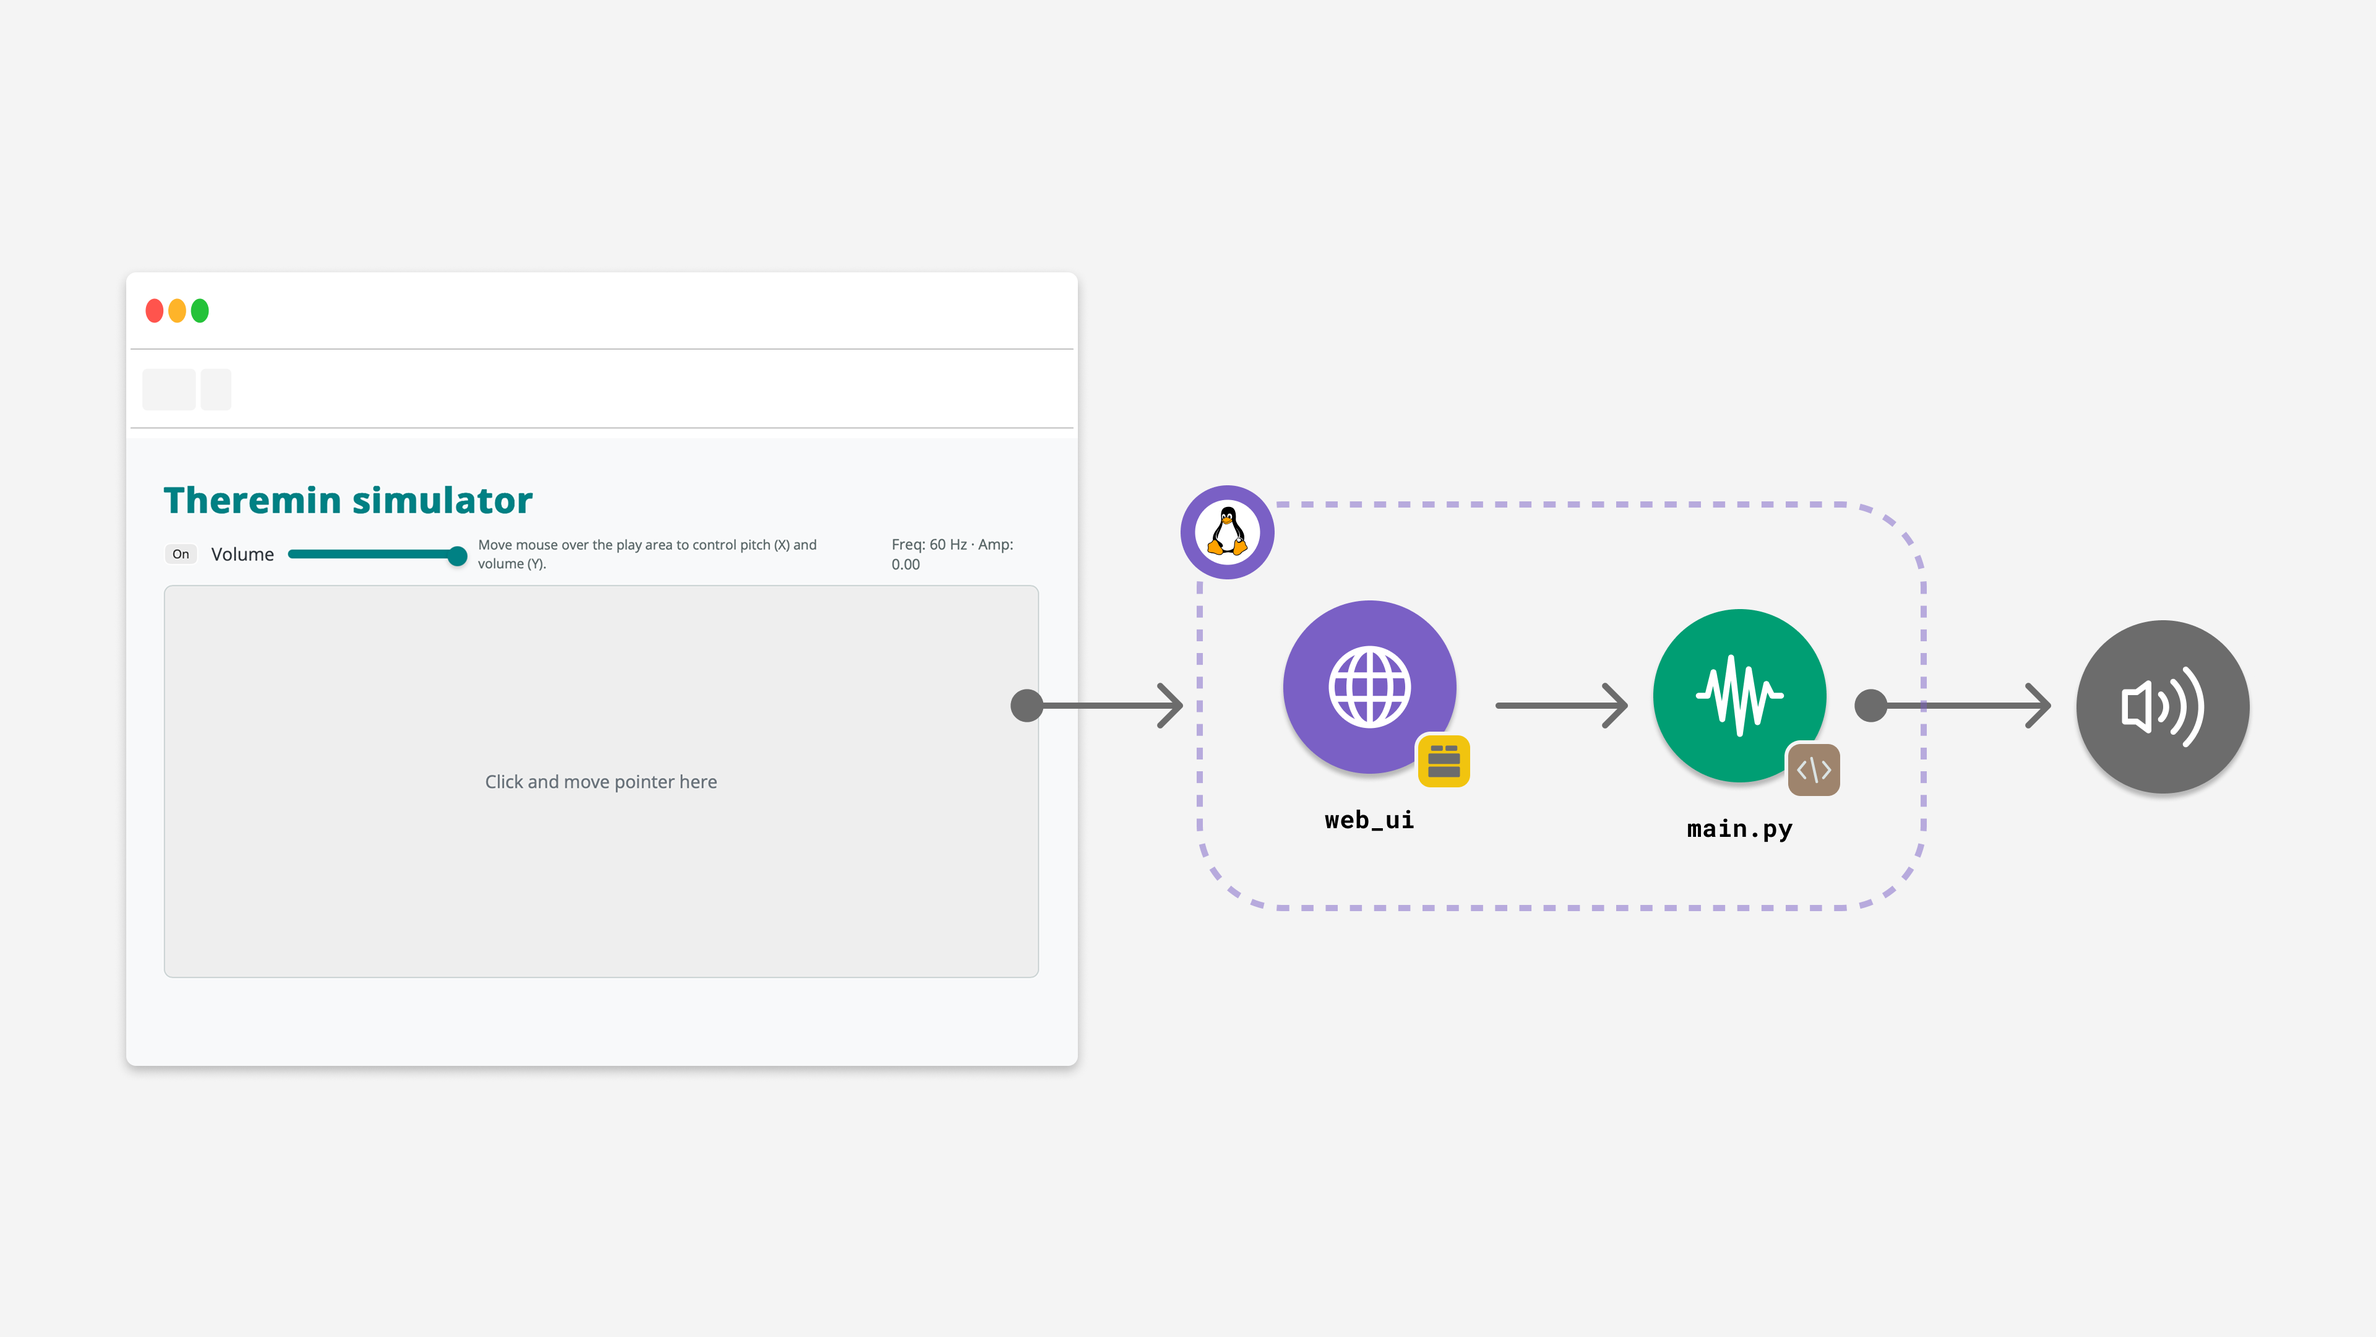
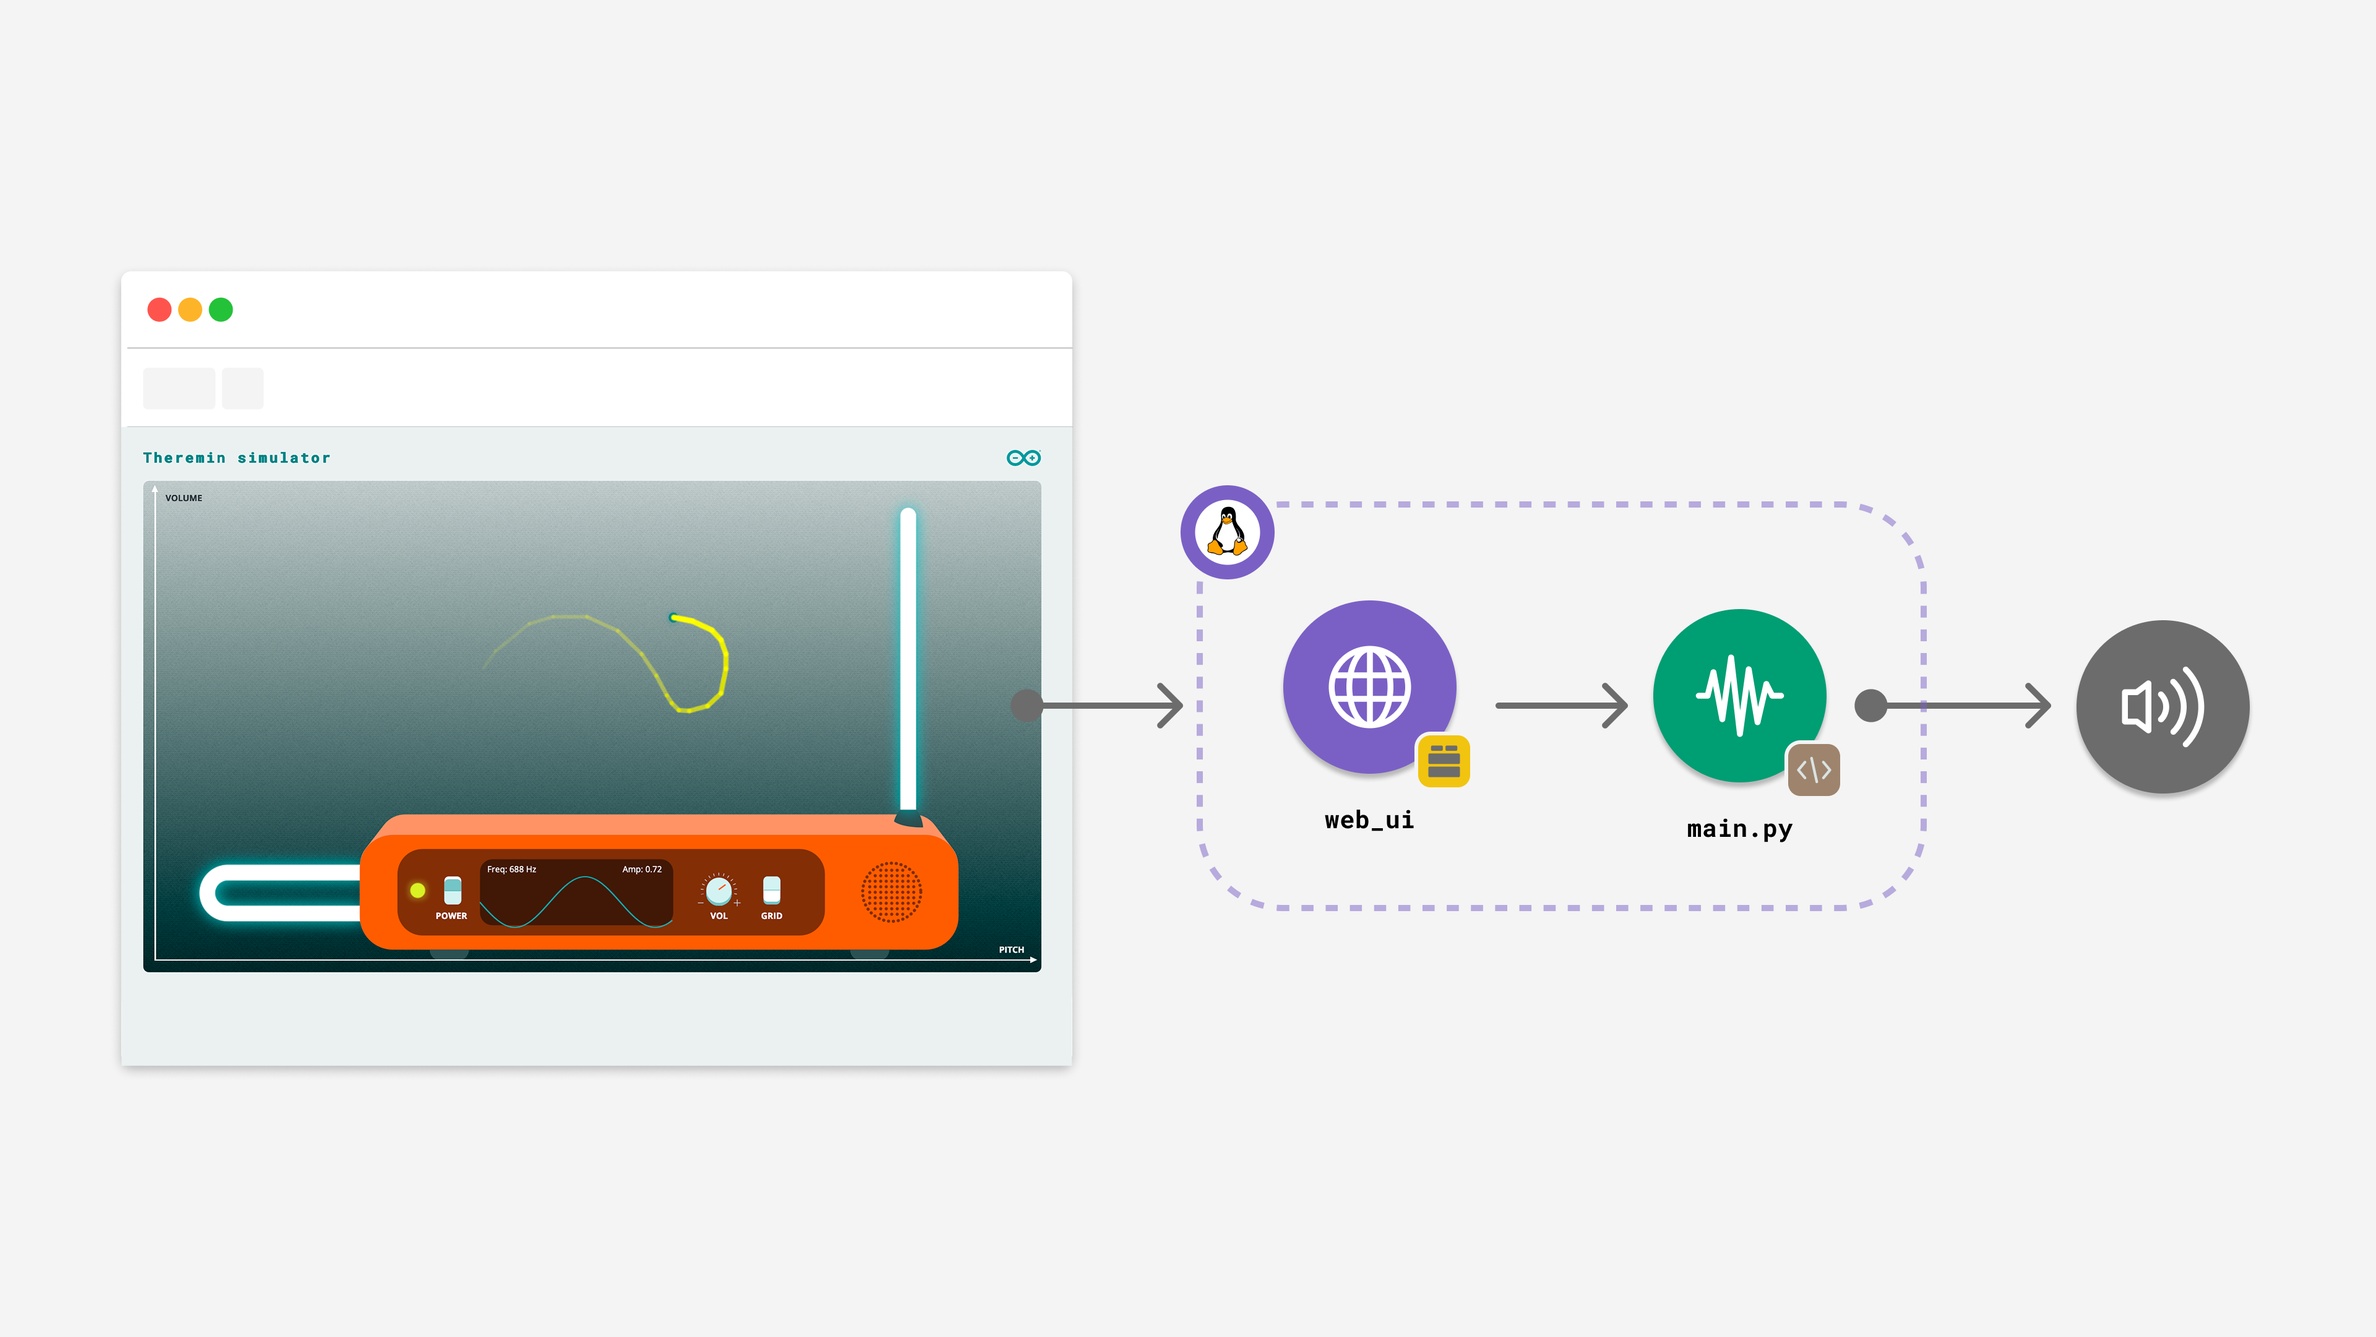
Update theremin docs

Changed region(s): [[0.0625, 0.3412, 0.4375, 0.7444], [0.0625, 0.2171, 0.0938, 0.2481]]

diff --git a/examples/theremin/README.md b/examples/theremin/README.md
@@ -1,19 +1,17 @@
 # Theremin Simulator
 
-The **Theremin Simulator** example lets you create and control a virtual theremin instrument using an interactive web interface, producing synthesized audio output through a connected **USB** audio device with minimal latency.
+The **Theremin Simulator** example lets you create and control a virtual theremin instrument using an interactive web interface, producing synthesized audio output through a connected **USB** audio device with low latency.
 
 > **Note**: This example must be run in **[Network Mode](learn/network-mode)** or **[SBC Mode](learn/single-board-computer)**, since it requires a **USB-C® hub** and a **USB speaker**.
 
 ![Theremin Simulator](assets/docs_assets/theremin-simulator.png)
 
-This example generates real-time audio by creating sine waves at varying frequencies and amplitudes based on user input from the web interface. The workflow involves receiving mouse/touch coordinates from the frontend, calculating the corresponding frequency and amplitude, generating audio blocks using a sine wave generator, and playing them through a **USB** audio device with minimal latency.
-
+This example generates real-time audio by creating sine waves at varying frequencies and amplitudes based on user input from the web interface. The workflow involves receiving mouse/touch coordinates from the frontend and updating a **Wave Generator** Brick, which handles the audio synthesis, smoothing, and streaming to the USB device automatically.
 
 ## Bricks Used
 
 - `web_ui`: Brick that provides the web interface and a WebSocket channel for real-time control of the theremin.
-- `wave_generator`: Brick that generates continuous audio waveforms and streams them to the USB speaker with smooth frequency and amplitude transitions.
-
+- `wave_generator`: Brick that handles audio synthesis, envelope control (smoothing), and streaming to the USB audio device.
 
 ## Hardware and Software Requirements
 
@@ -21,47 +19,66 @@ This example generates real-time audio by creating sine waves at varying frequen
 
 - [Arduino UNO Q](https://store.arduino.cc/products/uno-q) (x1)
 - **USB-C® hub with external power (x1)**
-- A power supply (5 V, 3 A) for the USB hub adapter with external power (x1)
+- A power supply (5 V, 3 A) for the USB hub (x1)
 - A **USB audio device** (choose one):
-  - **USB speaker** (cabled) (x1) ✅ *supported*
-  - **USB wireless speaker receiver/dongle** (2.4 GHz) (x1) ✅ *supported*
-  - **USB‑C → 3.5 mm audio connector** + headphones/speakers (x1) ⚠ *not tested* (may work)
+  - **USB speaker** (cabled) ✅ *supported*
+  - **USB wireless speaker receiver/dongle** (2.4 GHz, non-Bluetooth) ✅ *supported*
+  - **USB‑C → 3.5 mm audio connector** + headphones/speakers ⚠ *not tested* (may work)
 - A **power supply** (5 V, 3 A) for the USB hub (e.g. a phone charger)
 
-> **Not supported:** **HDMI audio and Bluetooth® Speakers** output is not supported by this App.
+> **Not supported:** **HDMI audio** and **Bluetooth® Speakers** are not supported by this App.
 
 ### Software
 
 - Arduino App Lab
 
-**Note:** A **USB-C® hub is mandatory** for this example. The UNO Q's single port must be used for the hub, which provides the necessary connections for both the power supply and the USB audio device. Consequently, this example must be run in **[Network Mode](learn/network-mode)** or **[SBC Mode](learn/single-board-computer)**.
-
+**Note:** A **USB-C® hub is mandatory** for this example. The UNO Q's single port must be used for the hub, which provides the necessary connections for both the power supply and the USB audio device. consequently, this example must be run in **[Network Mode](learn/network-mode)** or **[SBC Mode](learn/single-board-computer)**.
 
 ## How to Use the Example
 
-1. Connect your **USB audio device** (e.g., USB speaker, wireless USB receiver, or USB‑C→3.5 mm dongle) to a powered **USB-C® hub** attached to the UNO Q.
+1. **Hardware Setup:** Connect your **USB audio device** (e.g., USB speaker, wireless USB receiver) to a powered **USB-C® hub** attached to the UNO Q.
    ![hardware-setup](assets/docs_assets/hardware-setup.png)
 
-2. Launch the App by clicking the **Play** button in the top-right corner. Wait until the App has launched. 
+2. **Launch:** Launch the App by clicking the **Play** button in the top-right corner. Wait until the App has launched.
    ![Launching an App](assets/docs_assets/launch-app-theremin.png)
-3. Open the App in your browser at `<UNO-Q-IP-ADDRESS>:7000` *(typically 192.168.x.x, e.g., http://192.168.1.11:7000)*.
-4. Click and drag your mouse (or use touch) on the interactive area to play:
-   - **Horizontal movement (X-axis)** controls the **pitch** (frequency).
-   - **Vertical movement (Y-axis)** controls the **volume** (amplitude).
 
+3. **Open Interface:** Open the App in your browser at `<UNO-Q-IP-ADDRESS>:7000` *(typically 192.168.x.x, e.g., http://192.168.1.11:7000)*.
+
+### Interacting with the Interface
+
+Once the web page loads, follow these steps to make sound:
+
+1.  **Turn on Power:** Locate the orange control panel at the bottom. Click the **POWER** switch to toggle it **ON** (the small LED indicator will light up).
+    *   *Note: No sound will be produced if this switch is OFF.*
+2.  **Set Master Volume:** Adjust the **VOL** knob to a comfortable level (e.g., 70-80%). This sets the maximum output limit for the application.
+3.  **Play the Instrument:** Drag your mouse (or use your finger on a touchscreen) inside the large gray background area:
+    *   **Horizontal (Left ↔ Right):** Controls **Pitch**. Moving right increases the frequency (higher notes).
+    *   **Vertical (Bottom ↕ Top):** Controls **Note Volume**. Moving up increases the amplitude (louder). Moving to the very bottom silences the note.
+4.  **Waveform Display:** The screen in the center of the panel visualizes the real-time sine wave, frequency (Hz), and amplitude data.
+
+#### Additional Controls
+*   **GRID Switch:** Toggles a background grid overlay. Use this to visually reference specific pitch intervals or volume levels.
 
 ## How it Works
 
-The application creates a real-time audio synthesizer controlled by a web interface. User interactions on the webpage are sent to the Python backend via a WebSocket. The backend uses the `wave_generator` brick to continuously generate and stream audio to the connected **USB** audio device with smooth transitions.
+The application uses the `wave_generator` Brick to create a continuous audio stream. The Python backend receives user coordinates via WebSocket and updates the generator's frequency and amplitude. The Brick automatically handles **envelope smoothing** (attack, release, glide) to ensure the audio changes sound natural and analog-like, rather than robotic.
 
-- **User Interaction**: The frontend captures mouse or touch coordinates within a designated "play area".
-- **Real-time Communication**: These coordinates are sent to the Python backend in real-time using the `web_ui` Brick's WebSocket channel.
-- **Audio Synthesis**: The backend maps the X-coordinate to **frequency** and the Y-coordinate to **amplitude**, then updates the `wave_generator` brick's state. The brick handles smooth transitions using configurable envelope parameters (attack, release, glide).
-- **Audio Output**: The `wave_generator` brick runs continuously in a background thread, generating audio blocks and streaming them to the **USB** audio device with minimal latency.
+- **User Interaction**: The frontend captures mouse/touch coordinates and sends them to the backend.
+- **Real-time Communication**: Input data is sent via the `web_ui` Brick's WebSocket channel.
+- **Audio Synthesis**: The `wave_generator` Brick runs in the background. It takes the target frequency and amplitude and applies a **glide (portamento) algorithm** to transition smoothly between notes.
+- **Audio Output**: The Brick streams the generated sine wave directly to the **USB** audio device.
 
-High-level data flow:
+**High-level data flow:**
 ```
-Web Browser Interaction → WebSocket → Python Backend → WaveGenerator Brick → USB Audio Device Output
+Web Browser Interaction  ──►  WebSocket  ──►  Python Backend
+         ▲                                          │
+         │                                          ▼
+  (Visual Updates)                         (Glide & Synthesis)
+         │                                          │
+         └─  WebSocket   ◄──   State    ◄──  Sine Wave Generation
+                                                    │
+                                                    ▼
+                                             USB Audio Output
 ```
 
 
@@ -69,12 +86,11 @@ Web Browser Interaction → WebSocket → Python Backend → WaveGenerator Brick
 
 ### 🔧 Backend (`main.py`)
 
-The Python code manages the web server, handles real-time user input, and controls the audio generation brick.
+The Python code is simplified by using the `WaveGenerator` Brick, which encapsulates the audio logic.
 
-- `ui = WebUI()` – Initializes the web server that serves the HTML interface and handles WebSocket communication.
-- `wave_gen = WaveGenerator(...)` – Creates the wave generator brick with configured envelope parameters (attack=0.01s, release=0.03s, glide=0.02s). The brick automatically manages the USB speaker connection and audio streaming in a background thread.
-- `ui.on_message('theremin:move', on_move)` – Registers a handler that fires whenever the frontend sends new coordinates. This function updates the wave generator's frequency and amplitude using `wave_gen.set_frequency()` and `wave_gen.set_amplitude()`.
-- The `wave_generator` brick handles all audio generation and streaming automatically, including smooth transitions between frequency and amplitude changes, continuous audio output with ~**30 ms** blocks, and non-blocking playback without cracks or pops.
+- `wave_gen = WaveGenerator(...)` – Initializes the audio engine. It configures the **wave type** (sine), **sample rate** (16kHz), and **envelope parameters** (attack, release, glide). This Brick automatically connects to the USB audio device and starts a background thread for streaming.
+- `ui.on_message('theremin:move', on_move)` – When the frontend sends new coordinates, this function calculates the target frequency and calls `wave_gen.set_frequency()` and `wave_gen.set_amplitude()`.
+- `App.run()` – Starts the application. Since the audio generation is handled by the Brick in the background, no custom loop is required here.
 
 ### 💻 Frontend (`main.js`)
 
@@ -84,60 +100,55 @@ The web interface provides the interactive play area and controls for the user.
 - **Event listeners** capture `mousedown`, `mousemove`, `mouseup` (and touch equivalents) to track user interaction in the play area.
 - `socket.emit('theremin:move', { x, y })` – Sends normalized (0.0–1.0) X and Y coordinates to the backend; emissions are **throttled to ~80 Hz (≈12 ms)** to avoid overload.
 - `socket.on('theremin:state', ...)` – Receives state updates from the backend (like the calculated frequency and amplitude) and updates the values displayed on the webpage.
-- `socket.emit('theremin:set_volume', { volume })` – Sends a **0-100** hardware volume value to control the USB speaker's output level.
-- `socket.emit('theremin:power', { on })` – Toggles synth power (**On/Off**). After turning **On**, move/tap in the play area to resume sound.
-
-
+- **Visual Waveform Generation:** Using the amplitude and frequency data received from the backend, the frontend draws a real-time sine wave animation on the HTML Canvas, providing immediate visual feedback.
+- `socket.emit('theremin:set_volume', { volume })` – Sends a **0–100** master volume value.
+- `socket.emit('theremin:power', { on })` – Toggles synth power (**On/Off**).
 
 ## Troubleshooting
 
 ### "No USB speaker found" error
 
-If the application fails to start and you see the following error in the logs, it means the required audio hardware is missing or not detected.
-```
-arduino.app_peripherals.speaker.SpeakerException: No USB speaker found.
-```
-**Fix:**  
-1. Make sure a **powered USB-C® hub** is connected to the UNO Q and its **5 V / 3 A** power supply is plugged in.  
-2. Verify the **USB audio device** (USB speaker, wireless USB receiver, or USB-C→3.5 mm dongle) is **connected to the hub** and, if it has a switch, **turned on**.  
+If the application fails to start and you see an error regarding the speaker (e.g., inside the `WaveGenerator` initialization), it means the required audio hardware is missing.
+
+**Fix:**
+1. Make sure a **powered USB-C® hub** is connected to the UNO Q and its **5 V / 3 A** power supply is plugged in.
+2. Verify the **USB audio device** (USB speaker or wireless USB receiver) is **connected to the hub** and, if it has a switch, **turned on**.
 3. Restart the application.
 
 ### No Sound Output
 
-- **Power Button:** Make sure the button in the web UI shows **On**.  
-- **Volume Slider:** Increase the volume slider in the web UI.  
-- **Pointer Position:** Move your mouse/finger toward the top of the play area (the bottom corresponds to zero volume).  
-- **Speaker/Headphone Volume:** Check the physical volume control and mute status on your speaker or headphones.  
+- **Power Button:** Make sure the button in the web UI shows **On**.
+- **Volume Knob:** Check the visual knob on the web UI.
+- **Pointer Position:** Move your mouse/finger toward the top of the play area (the bottom corresponds to zero volume).
+- **Speaker/Headphone Volume:** Check the physical volume control and mute status on your speaker or headphones.
 - **Output Path:** Remember that **HDMI audio** and **Bluetooth® speakers** are not supported; use a **USB** audio device.
 
 ### Choppy or Crackling Audio
 
-- **CPU Load:** Close any other applications running on the Arduino UNO Q that may be consuming significant resources.  
+- **CPU Load:** Close any other applications running on the Arduino UNO Q that may be consuming significant resources.
 - **Power Supply:** Ensure you are using a stable, adequate power supply (5 V, 3 A) for the USB-C® hub, as insufficient power can affect USB peripheral performance.
-
-
 
 ## Technical Details
 
-- **Sample rate:** 16,000 Hz  
-- **Audio format:** 32-bit float, little-endian  
-- **Block duration:** ~30 ms (≈480 samples per block)  
-- **Frequency range:** ~20 Hz to ~8,000 Hz  
-- **Update rate:** Frontend throttled to ~80 Hz (≈12 ms minimum between updates)
-
-
+- **Sample rate:** 16,000 Hz
+- **Audio format:** 32-bit float, little-endian
+- **Block duration:** ~30 ms
+- **Frequency range:** ~20 Hz to ~8,000 Hz
+- **Envelope:**
+  - **Attack:** 0.01s (fast onset)
+  - **Release:** 0.03s (quick fade out)
+  - **Glide:** 0.02s (smooth pitch sliding)
 
 ## Compatibility Notes
 
-- **Works with:**  
-  - **USB speakers** (cabled)  
+- **Works with:**
+  - **USB speakers** (cabled)
   - **USB wireless speaker receivers** (2.4 GHz dongles)
-- **Untested (may work):**  
+- **Untested (may work):**
   - **USB‑C → 3.5 mm audio dongles** feeding analog speakers/headphones
-- **Not supported:**  
-  - **HDMI audio** output  
+- **Not supported:**
+  - **HDMI audio** output
   - **Bluetooth® speakers**
-
 
 ## License
 
